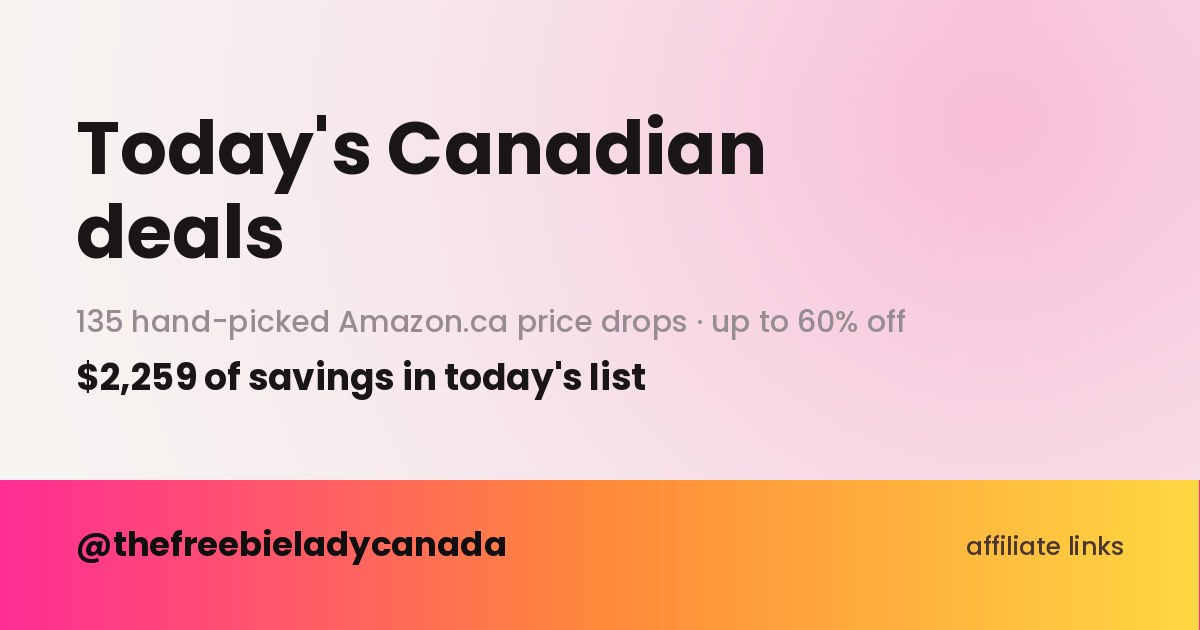
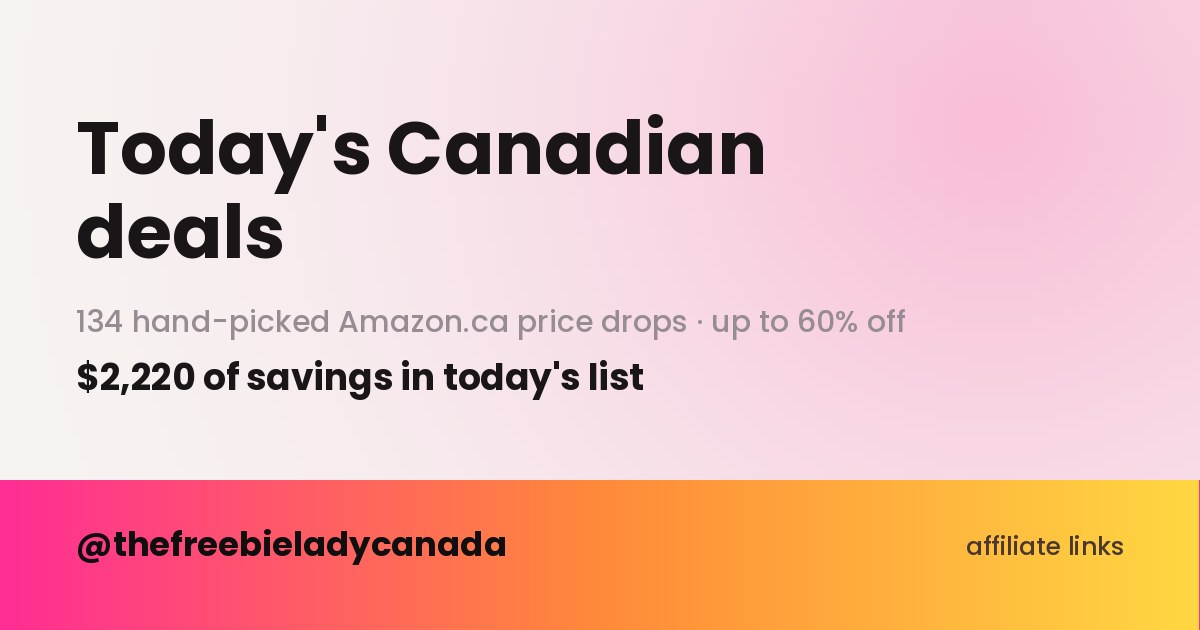
updated

diff --git a/index.html b/index.html
@@ -4,12 +4,12 @@
 <meta charset="utf-8">
 <meta name="viewport" content="width=device-width, initial-scale=1">
 <title>Today's Canadian Deals — The Freebie Lady Canada</title>
-<meta name="description" content="135 hand-picked Amazon.ca price drops, up to 60% off. Updated daily.">
+<meta name="description" content="134 hand-picked Amazon.ca price drops, up to 60% off. Updated daily.">
 <link rel="canonical" href="https://thefreebieladycanada.com/">
 <meta property="og:type" content="website">
 <meta property="og:site_name" content="The Freebie Lady Canada">
 <meta property="og:title" content="Today's Canadian Deals">
-<meta property="og:description" content="135 hand-picked Amazon.ca price drops, up to 60% off. Updated daily.">
+<meta property="og:description" content="134 hand-picked Amazon.ca price drops, up to 60% off. Updated daily.">
 <meta property="og:url" content="https://thefreebieladycanada.com/">
 <meta property="og:image" content="https://thefreebieladycanada.com/og.jpg">
 <meta property="og:image:width" content="1200">
@@ -172,7 +172,7 @@ footer b{color:var(--ink); font-weight:600}
     <div class="rule"></div>
     <p class="sub">Hand-picked price drops on Amazon.ca — from
       <b>@thefreebieladycanada</b>.</p>
-    <p class="meta">135 deals &middot; checked 18 September, 12:12 PM ET</p>
+    <p class="meta">134 deals &middot; checked 18 September, 12:40 PM ET</p>
   </header>
 
   <p class="upfront"><b>Affiliate links</b> — every link on this page, including the perks below, is an Amazon affiliate link.</p>
@@ -235,7 +235,7 @@ footer b{color:var(--ink); font-weight:600}
         <span class="go" aria-hidden="true">&rarr;</span>
       </a>
     </div>
-    <a class="jump" href="#deals">See today's 135 deals &darr;</a>
+    <a class="jump" href="#deals">See today's 134 deals &darr;</a>
   </section>
 
   <h2 class="deals-head" id="deals">Today's deals</h2>
@@ -244,7 +244,7 @@ footer b{color:var(--ink); font-weight:600}
     <details class="daygroup" open>
       <summary class="daysum">
         <span class="daylabel">Today</span>
-        <span class="daycount">9 deals</span>
+        <span class="daycount">8 deals</span>
         <span class="chev" aria-hidden="true">&#9662;</span>
       </summary>
       <ul>
@@ -370,22 +370,6 @@ footer b{color:var(--ink); font-weight:600}
             <span class="now">$19.99</span>
             <span class="was">$29.99</span>
             <span class="save">save $10.00</span>
-          </span>
-          
-        </span>
-        <span class="go" aria-hidden="true">&rarr;</span>
-      </a>
-    </li>
-
-    <li>
-      <a class="deal" href="https://www.amazon.ca/dp/B0785LVVCY?tag=thefreebielad-20&amp;linkCode=ll1&amp;language=en_CA" target="_blank" rel="nofollow sponsored noopener">
-        <span class="off"><b>31%</b><i>off</i></span>
-        <span class="txt">
-          <span class="name">Sydney Toddler Bed</span>
-          <span class="prices">
-            <span class="now">$87.33</span>
-            <span class="was">$126.18</span>
-            <span class="save">save $38.85</span>
           </span>
           
         </span>
